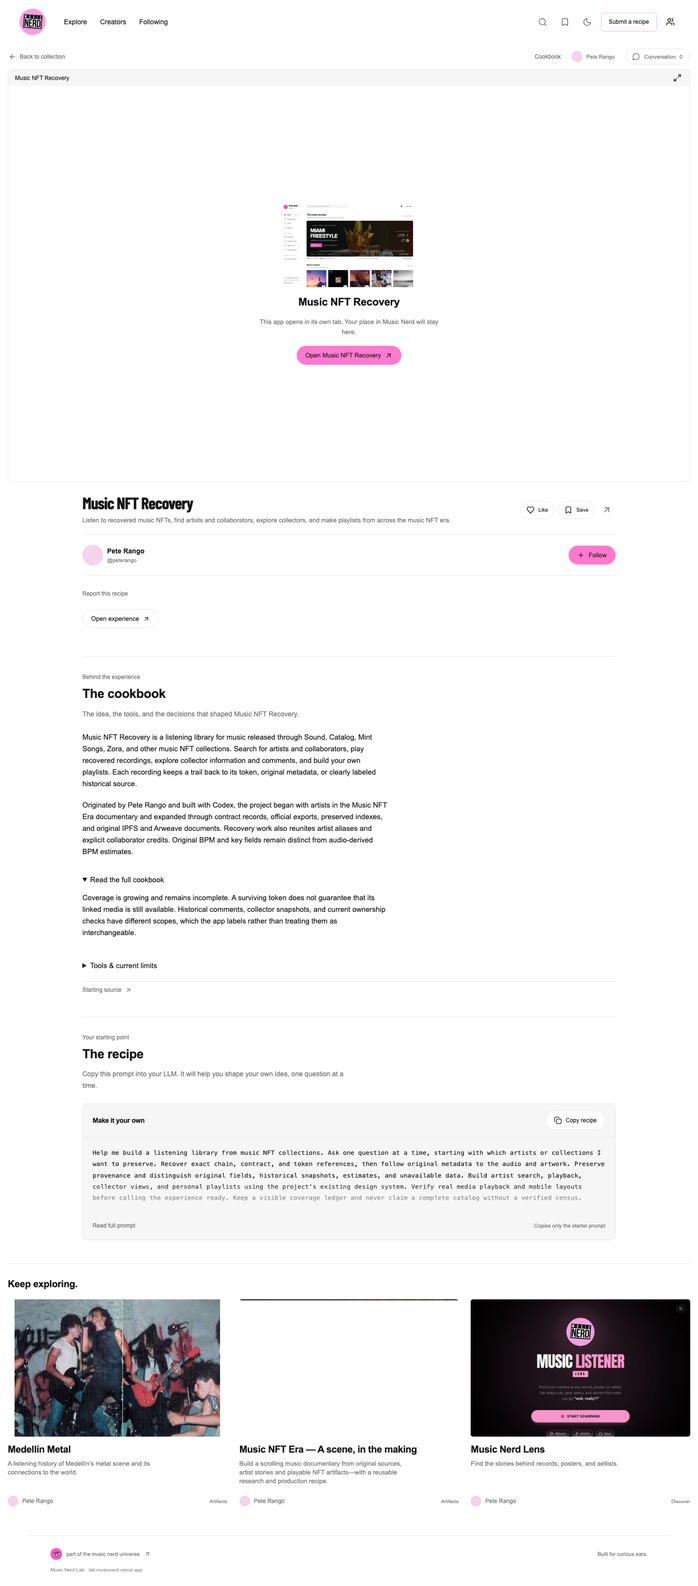
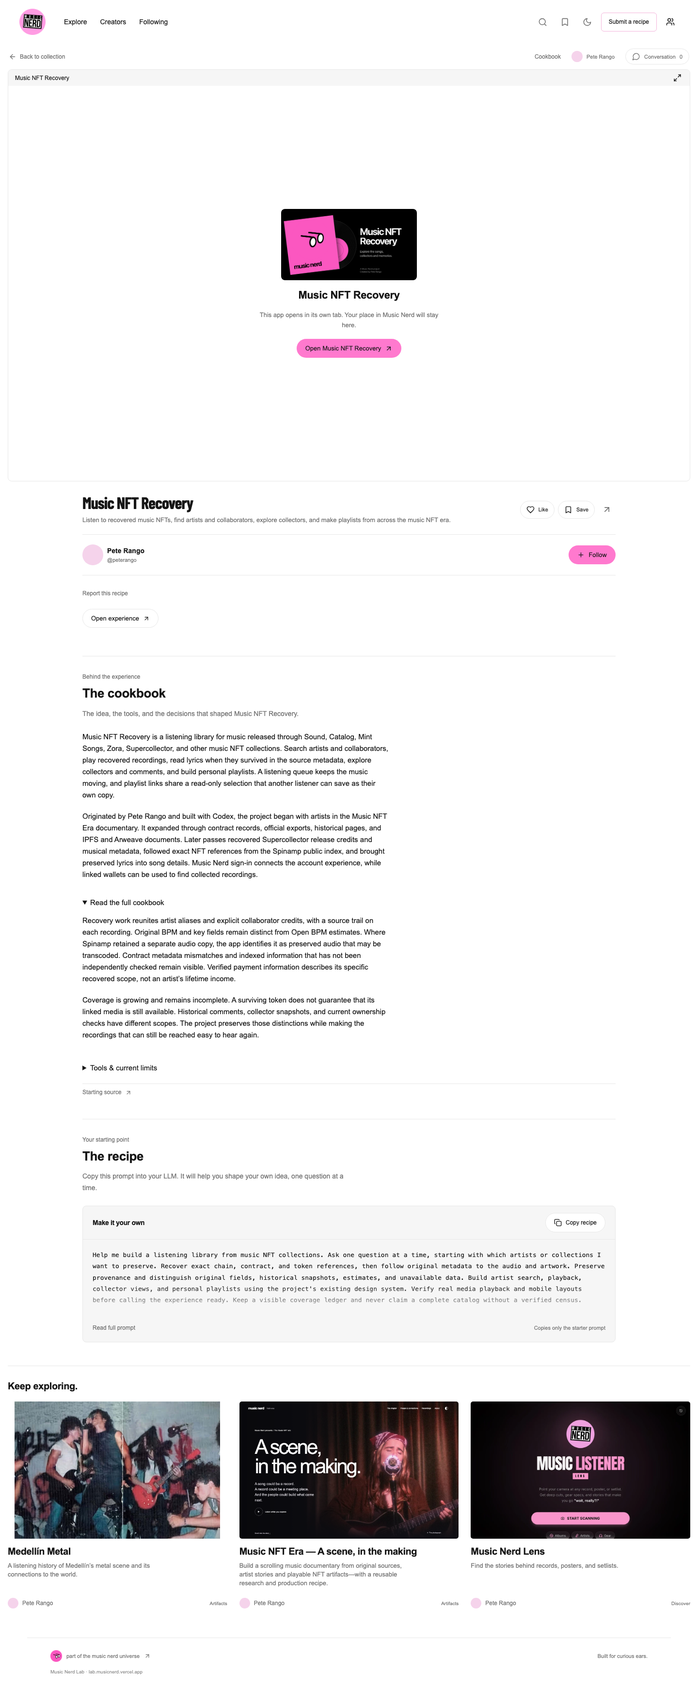
docs: record verified main deployment and updated Music Nerd Lab listing

diff --git a/docs/RECOVERY-HANDOFF.md b/docs/RECOVERY-HANDOFF.md
@@ -1,138 +1,66 @@
 # Music Nerd music NFT recovery — agent handoff
 
-Checkpoint: November 6, 2026, updated during the production release. Originator: **Pete Rango**. This document replaces the earlier handoff-only checkpoint. Final release checks and later data-worker checkpoints can supersede the counts below.
+Updated November 6, 2026. Created and originated by **Pete Rango**. This is the separate recovery/listening app, not the Music NFT Era documentary.
 
-## Repository and local workspaces
+## Current publication
 
-Dedicated public repository: https://github.com/xdjs/web3-music-repo . The implementation and public data are published in [draft PR #1](https://github.com/xdjs/web3-music-repo/pull/1), branch `codex/recovery-app`. Main remains the earlier handoff checkpoint until merged.
+- Repository: https://github.com/xdjs/web3-music-repo — PR #1 merged to `main`, app commit `e3458a1e29ff581dded2a90c0c6b19e454fa5548`.
+- Live app: https://web3-music-repo.vercel.app/ . Production deployment `dpl_EzRjTGwjs26ny3bDyrUvDJnF1uEr`, built from a clean worktree at that exact merged commit.
+- Immutable deployment: https://web3-music-repo-ql7ogjao5-musicnerd.vercel.app .
+- Existing Lab listing: https://lab.musicnerd.net/peterango/music-nft-recovery . The Lab entry launches the Vercel app; it is not a separate application build. Its new cover, main source link, cookbook and Pete Rango credit were published and verified by API read-back and desktop/mobile rendering. See `docs/lab-submission-plan.md` and `data/lab-update-persistence.json`.
+- Verification-only files committed after the app deployment do not change the deployed application code. `data/release-2026-11-06.json` and `data/production-final-verification.json` identify the tested release. Older failed/network-interrupted reports remain historical evidence, not the latest release result.
 
-- Git checkout: `/Users/peterarango/Documents/Music Nerd/Apps/web3-music-repo`.
-- Active preview and bulk workers: `/Users/peterarango/Documents/Music Nerd/Apps/music-nft-recovery`, http://127.0.0.1:4190.
-- The preview directory remains a preserved local working copy without Git. Its `.env.local` and private playlist data were deliberately not transferred.
-- The documentary at `/Users/peterarango/Documents/Music Nerd/Music NFT Era` is a different, dirty repository. Do not reset, stage or overwrite it.
-- Public deployment: https://web3-music-repo.vercel.app . Core release `4a21953` deployed as `dpl_EvGcZJyofBcXUXehfhyNQXZxGckt` and passed live browser verification. Later source edits require a new deployment.
-- The canonical Music Nerd database is used for read-only account lookup. Account playlists use a separate private Vercel Blob store. No canonical account creation or merge is performed.
-- Lab listing is published and verified under Pete Rango: https://lab.musicnerd.net/peterango/music-nft-recovery . See `docs/lab-submission-plan.md`.
+## Workspaces and active work
 
-Before editing, inspect running processes and working directories. Do not run two writers against one data file. Recovery data continues to change in the preview copy; the Git checkout is a reviewed checkpoint, not an automatic mirror.
+- Canonical checkout: `/Users/peterarango/Documents/Music Nerd/Apps/web3-music-repo`, now on `main`.
+- Clean deployed worktree: `../web3-music-release-main`, detached at the deployed app commit. Do not modify it while tracing this release.
+- Active preview and Open BPM worker: `../music-nft-recovery`, http://127.0.0.1:4190. The latest app files were synchronized there, preserving `.env.local`, private playlists, raw metadata cache and its newer audio-analysis output. It has no Git repository.
+- The documentary `/Users/peterarango/Documents/Music Nerd/Music NFT Era` is a different dirty repository. Do not reset, stage, move or overwrite it.
+- Never start two writers against one recovery output. Check lock owner PID/cwd before removing a stale lock. Checkpoints do not prove that a process is alive.
 
-## Latest user requests and implemented behavior
+The Open BPM worker was verified as PID 85147 in the preview copy. Its committed snapshot at 10:24:58 UTC has 732 estimates, 21 low-confidence results, 264 unavailable, 7,574 pending and 612 supplied-BPM skips. The 4,437 newer records were not queued in that run. It analyzes accessible full audio up to 256 MB/30 minutes, confidence<0.3 withheld; tempo range 60–200 can produce half/double-time estimates. Original BPM always wins. The tested pinned Open BPM/Rust setup is documented in README; local binary is under `../.music-recovery-tools/cargo/bin/`. Do not overwrite this worker's newer checkpoint with the Git snapshot.
 
-Pete requested all-track metadata recovery, useful musical/credit details, artist revenue, Open BPM for missing tempo, and a user profile for wallet collections/playlists.
+The Spinamp relation resolver continues only `data/spinamp/nft-references.json.gz`, deliberately gitignored. The frozen runtime bundle does not change automatically. At the release audit 26,409/52,987 relations were checked with 697 retryable failures. See the importer/resolver commands and limits in `docs/spinamp-recovery-plan.md`. Only regenerate a release candidate deliberately, after reviewing identity exclusions, source labels and actual media samples.
 
-- `#me` is My profile, with My collection / My playlists tabs and the existing Music Nerd controls. Privy-linked wallets and browser connections remain distinct. Guest wallet lookup/local playlists work. The account-loading placeholder is cleared when the account card mounts.
-- Metadata extraction now preserves CHAOS BPM/key/credits, plus genre, label, duration, location, license and other explicitly supplied release fields. The previous count of 27 BPM tracks came from a narrow description parser and was incomplete.
-- Song Details displays metadata-supplied BPM/key separately from `~BPM` Open BPM estimates. Original credits and compact expandable metadata retain source links. Estimates never override supplied BPM; confidence below 0.3 is withheld for review.
-- Catalog financial recovery validates the exact purchase event, gross USDC debit, and transfer to the historical artist payout address. Gross sales, artist payout, platform and referral amounts remain separate. Deduplication uses event IDs and BigInt amounts. Album purchases, secondary sales and later activity are not claimed.
-- Catalog collectors: Ethereum historical owners; Base purchase recipients, explicitly not current balances (the transfer export omits mint history). Exact chain/contract/token matching is required.
-- The Park Zora media and exact-token mint comments are integrated. Pete Rango’s `rush` is also recovered as a clearly labeled 20.63-second coin-backed video clip, with ERC-20 safeguards; it is not presented as a full-song NFT.
-- Mint Songs Ethereum V2 and a bounded Polygon sample are integrated, with original metadata, creator credits and exact media references. Original BPM/key are absent in the inspected cohort, not proven absent platform-wide. See `docs/mint-songs-recovery.md`.
-- Media and image recovery use bounded alternate gateways for the same CID/path; no replacement audio or invented profile image is substituted.
-- Same-song tabs preserve the hero and scroll; collectors/PFPs remain visible in Details. About stays in sidebar/footer; the top slogan is gone.
+## Frozen catalog and source boundaries
 
-## Current catalog and evidence
+**13,640 records**, not necessarily distinct compositions: Sound 8,729; Catalog 4,036; Supercollector 616; Mint Songs 162; Songcamp 43; Zora 34; Lens 1; other/unconfirmed/Arpeggi 19. No complete-platform, complete-discography or all-track playback claim is made. Exact token and record identity audit found no duplicates.
 
-The listening-catalog checkpoint has **9,209 records**, after excluding artwork-only entries from listening surfaces. This is a temporary release checkpoint, not a complete-platform or distinct-recording count. Raw source bundles retain recovery evidence, so their totals can exceed the playable-media catalog. Further Zora imports and media classifications may change the next report.
+- Original documents/publisher snapshots cover 9,209 existing records. Catalog's official export supplies 4,036 app records; all available original Catalog and Mint Songs snapshots were inspected for explicit musical fields. Missing fields are not evidence the music lacks them.
+- Supercollector adds 616 eligible public tracks from 152 checked ERC1155 contracts. Unreleased entries and 7 missing per-track references are excluded. ContractURI/index mismatches stay visible and are not promoted to independently verified media. See `docs/supercollector-recovery.md`.
+- Spinamp adds 3,815 exact NFT-linked records from a 52,987-track discovery inventory: 3,814 Sound + 1 Lens, including 3,421 Base additions. 2,011 use explicitly labeled Spinamp-preserved audio because original metadata media is empty. Independent chain verification remains pending; 125 entries lack a retained metadataURI. Public index assertions never become onchain verification. See `docs/spinamp-recovery-plan.md`.
+- Spinamp provides 1,211 source-attributed portrait references; one known Pete wallet maps to his existing profile. Name matching alone is not used to merge vendor identities. Remote portraits are not all visually checked.
+- **1,275 songs have inline lyrics**, recovered from existing original metadata caches. Text preserves line breaks, is escaped, and expands on the song page; source links are secondary. Schema 5 and `apply-cached-lyrics.mjs` update only lyric fields, preserving existing metadata. See `docs/lyrics-recovery.md`.
+- **2,477 supplied BPM values and 2,144 supplied keys**, across original documents, publisher snapshots, official release pages and explicitly indexed metadata. Open BPM estimates remain separate. `data/enrichment-report.json` distinguishes these source classes.
+- Pete has 21 attributed records: core 17 (including six newly verified Zora/other collaborations and a clearly labeled 20.63 s rush coin-backed clip), three Supercollector collaborator credits, and an exact-wallet Lens release. Evermore remains Other pending platform proof; holdings are not authorship. This is not a complete discography.
+- Sound census currently contains 9,488 known contracts, not songs. Multi-chain coverage remains incomplete. Spinamp's 28 factory seeds provide concrete scan boundaries, including Sound Base block 7,272,929; verify exact deployment events independently. No Polygon Sound factory appeared in that index response.
 
-Read `data/enrichment-report.json` for the timestamped metadata/BPM/payment counts. They change during recovery; rerun `node scripts/report-enrichment.mjs` before quoting them.
+## User-facing behavior
 
-- Sound known Ethereum/Optimism factory census: 9,488 contracts. Earlier cohort: 4,699 modern metadata successes, 276 legacy, 3,361 unminted, 1,256 unresolved. Consult source timestamps before combining cohorts.
-- Sound archive: 2,878 historical comments across 83 releases; 2,162 recovered wallet-linked profiles; 1,053 locally preserved PFPs. Not complete or current identity coverage.
-- Zora: 61 verified MintComment events from The Park on chain 7777777. Official minter, matching mint transfer, receipt and block provenance are retained. Wallet shown is mint recipient, not necessarily author. Base comment scans remain provider-limited.
-- Catalog official snapshot: 4,164 token entries, 2,499 Ethereum + 1,665 Base; 4,106 supported media references; earlier 2,970 current metadata reads. App deduplication reduces Catalog record count.
-- All 186 Base token-purchase rows in the official export now pass receipt/USDC verification, across 115 token identities; 113 match current app records. This is not all Catalog revenue. Historical purchase recipients and financial rows are separate views.
-- 1,611 original Catalog metadata JSON objects were recovered directly from the official export and saved in `data/catalog/original-metadata.json`.
-- Original metadata/notes currently provide hundreds of BPM values; the full retry scan and audio estimation pass are still running. Failed/rate-limited reads are unresolved, not proof that fields do not exist.
+Artist/credit search, clear platform/collection/network/media filters, sourced oldest/newest ordering, song Details/Collectors/Comments/Provenance, clean shared navigation/player icons, finite same-CID artwork/media fallback, and theme/mobile support are implemented. Artwork-only records are excluded while their discovery evidence is retained.
 
-Sources: [Catalog data](https://github.com/catalogworks/catalog-squidward-data), [Catalog contracts pinned](https://github.com/catalogworks/catalog-release-contracts-public/tree/6bcc4fbdc7c3c0ea38f8758cdbd1c7f41a60f472), [Open BPM pinned](https://github.com/fabriziosalmi/open-bpm/tree/73a3e6ef33f5c9d4131d118b14dcd4da73ec1775).
+Playing while browsing creates a contextual queue when no explicit queue exists. Explicit queues are preserved; remove-track/Clear queue keep current playback running. Conservative idle metadata warming uses one native player, at most two starts/minute, a two-second incomplete-request cutoff, and skips video, slow/data-saving/offline/background cases. Browser buffering controls bytes; this is not a hard byte cap.
 
-## Active long-running work and resume
+Personal playlists, likes, and bounded shared snapshot links work without login. Recipients can play and save independent copies. Four recovered Sound playlists have play/save/share/like controls: Chill n Work 23/23 matched, STØNED & STÅRVING #5 15/22, MOMINTS VOL-IV 13/14, Lofi Chill 10/10. Recovered historical positions and currently matched recordings are separate counts. Seven additional public Spinamp playlists are preserved as research; they are not mislabeled historical Sound playlists or claimed integrated.
 
-Two resumable bulk workers have operated in the original preview directory. **Inspect live process state before resuming; a checkpoint timestamp does not prove a worker is running.**
+Browsing requests a compact index; full details load only when a recording opens, with retry and stale-response protection. Vercel serves shared build-time catalog snapshots statically to avoid the Function response limit. Local API remains dynamic. Live index delivery measured 2,285,031 Brotli bytes /11,935,505 decoded, 480 ms in one cached browser run; latency is not guaranteed. Full static export 49,264,634 bytes returned HTTP 200. See `docs/catalog-delivery.md`.
 
-1. `scripts/recover-music-metadata.mjs` writes `data/music-metadata.json`. It consumes official saved JSON, reuses a raw cache under `work/music-metadata-cache`, paces requests, retries rate limits, and preserves earlier successful data. The first all-record attempt hit extensive HTTP 429s; the latest pass completed for all 9,209 current listening records, using original JSON and attributed snapshots. This is metadata extraction coverage, not proof that all platform releases or media are recovered.
-2. `scripts/analyze-missing-bpm.mjs` writes `data/audio-analysis.json`. It rechecks supplied BPM before each track, downloads/decodes full media, runs Open BPM, saves each result, and removes temporary audio. It currently runs four workers (`--concurrency=4`; default two), bounded file/duration limits, explicit low-confidence status, and cooldown/retry for HTTP 429. Thousands of entries remain pending; do not describe the run as complete.
+## Account and payment boundaries
 
-Inspect `pgrep -fl 'node.*(run.cjs|work/live.mjs)'`, then confirm process cwd. The temporary wrappers were repointed during work; read them before running. Prefer the named npm scripts when resuming. Do not start a duplicate worker while one still owns the output.
+Dedicated local and production clients use the existing Music Nerd Privy app. Exact allowed production origin is `https://web3-music-repo.vercel.app`; local origins are 127.0.0.1:4190 and localhost:4190. Main/default Music Nerd client settings remain unchanged. Real SDK email/wallet modal passed both viewports/themes with no origin errors. **Personal email OTP, wallet signing/linking and real-account playlist save/load remain unverified user actions.**
 
-Open BPM 0.1.0 was built from the pinned source because crates.io did not have the requested package. Rust/Cargo and binary are under `/Users/peterarango/Documents/Music Nerd/Apps/.music-recovery-tools/cargo/bin/`, with Rustup alongside. No shell startup file was changed. See README for portable installation.
+Canonical Music Nerd identity lookup is read-only. Unknown accounts receive 409 and onboard on Music Nerd; this app never creates/merges canonical accounts. Linked wallets and browser connections remain distinct. Private Vercel Blob stores account playlists with revision/ETag conflict protection and account isolation; live synthetic persistence/concurrency/private-access checks passed. Guest playlists remain browser-local. Wallet lookup matches known supported catalog tokens/indexers, not every NFT on every chain.
 
-After jobs finish: regenerate the report, inspect failures by reason, retry unreachable media deliberately, review the changed public JSON, copy those checkpoints into the Git checkout, rerun validation, and commit. Do not copy `.env*`, `private/`, `node_modules/`, temporary audio, or historical frontend bundles.
+Catalog financial views validate 186 Base purchases and 144 Ethereum royalty events. Gross purchases, artist/platform/referral payouts and received royalties remain separate; BigInt amounts and currencies are preserved. Historical recipients are not assumed current owners or personal income. Album allocation, all secondary sales and complete lifetime revenue are not claimed. Sound/Zora revenue recovery remains open.
 
-## Validation
+## Verification, branding and next steps
 
-- Unit coverage includes receipt/currency/payout checks, metadata precedence, collector token scope, account isolation, conditional playlist persistence, comment provenance, ERC-20 safeguards, and finite gateway fallback. The release orchestrator is rerunning the complete suite; do not reuse an older test count as final evidence.
-- Syntax and formatting checks pass in the preview copy.
-- Rendered music metadata/revenue and My profile verified at 1440px and 390px, light and dark, with no overflow or browser errors. Profile tabs do not shift, and the loading placeholder disappears.
-- Browser verification passed playback, search, likes, Pete credits, live ownership/collectors, contract rereads, comments, mobile navigation, and local playlist create/add/reorder/rename/reload/play/next/remove/delete.
-- A playlist playback check initially timed out on live media, then passed on retry. Keep external media failures visible; do not silently mark them verified.
-- Collector browser check loaded 64 collectors, followed a forward-verified ENS profile, and confirmed playback still works.
-- Evidence: `data/music-details-ui-verification.json`, `data/profile-catalog-ui-verification.json`, existing collector/comment reports and `captures/`.
-- Local real Privy email/wallet modal verified at 1440/390px in both themes; no OTP or wallet signature sent. Mocked account fixtures cover linked wallets, add/connect distinctions, setup retry, save/load and logout isolation. These do not prove a real personal authenticated transaction.
-- Four additional live playback samples passed: rush, Mint Songs Driving, Sound Breakdown, Catalog IOI. Polygon TAY artwork recovered through a same-CID fallback after a forced gateway failure. See `data/recovery-playback-verification.json` and `data/image-recovery-verification.json`.
-- Playlist sharing passed local fresh-recipient browser checks: original MIAMI playback, ordered Next, independent saved copy/edit/reload, likes, invalid links and unavailable entries. Links contain a bounded compressed snapshot of title and catalog IDs only; account save/load remains separate. See `data/playlist-sharing-verification.json` and `docs/playlist-sharing.md`. Production deployment remains pending.
-- Four historical Sound playlist snapshots are now integrated locally: Chill n Work (23/23 details), STØNED & STÅRVING #5 (16/22), MOMINTS VOL-IV (14/14), Lofi Chill (10/10). The prior seven Chill gaps were an extractor omission: its archived activity feed preserves those exact track IDs. Detail recovery, catalog matching and playback are separate counts. See `docs/historical-playlist-recovery.md`; four-list navigation/direct-link reload/save-copy browser verification passed at 1440/390px in both themes with no overflow or page errors (`data/historical-playlists-verification.json`). Catalog matches are 23, 15, 13, 10 respectively; saved copies retain those matched entries in exact order. Production deployment remains pending.
-- Playback preloading is under integration/review; use the orchestrator’s final deployment evidence before describing it as deployed.
+167 JavaScript tests, 5 Catalog-export Python checks, syntax/format checks, static module dependency check and the production build passed. Lyrics, source/provenance panels, filters, profiles, queues and playlists were reviewed at 1440/390 px in light/dark. Production checks passed static catalog parity, inline lyrics, actual attributed Spinamp PFP loading, selected audio startup, ordered playlist Next, save-copy, and real SDK login modal. No all-track/full-listen claim is made.
 
-## Remaining blockers and next priorities
+The share image matches the current live Music Nerd black/pink record-sleeve styling, original lenses logo and verified SF NS system type. OG/Twitter and Lab use the new 1200×630 image; see `docs/share-image.md`. Social networks may retain older cached previews. Instagram audio/video clip export remains a proposal, not implemented functionality.
 
-1. Complete the metadata/BPM workers and review unavailable/low-confidence results. Arweave is returning HTTP 429 for some content. Preserve original values and distinguish unknown, unavailable, and estimated.
-2. Broaden revenue: Catalog Ethereum sales/royalties, album allocation, Sound mint payments/splits, then Zora. Never multiply current price by editions or call secondary sale volume artist income. Keep currencies and historical USD conversions separate.
-3. Sound Base/Polygon historical scans remain incomplete. Empty responses caused by errors are not completed censuses. Additional Zora music discovery is multi-chain and cannot rely on a universal music tag.
-4. Privy origin configuration is fixed: local client allows only localhost/127.0.0.1:4190; production client allows only https://web3-music-repo.vercel.app. Both live API read-backs passed, with main/default settings preserved. Production environment is configured and real SDK modal QA passed in both viewports/themes. Real personal sign-in, linked-wallet flow and account save/load still need user testing. Unknown canonical accounts receive 409 and must first onboard through Music Nerd.
-5. Private Vercel Blob storage now provides durable production account playlists with conditional writes and account isolation. Guest playlists remain browser-local; real personal end-to-end persistence is unverified. Wallet library only matches known catalog tokens and supported indexers, not every wallet NFT on every chain.
-6. Missing PFPs need attributable historical images or forward-verified ENS. Do not choose arbitrary NFTs as a person's avatar. More artist banners and faithful historical organization remain useful.
-7. Reassess wallet dependency advisories before deployment (last install audit: 32 transitive issues, 11 moderate/21 high). No forced breaking downgrade was applied.
+Next: finish relation/BPM checkpoints, verify newly indexed original metadata/media, target missing factory ranges, add Solana/Nina support, continue sourced comments/social/profile recovery, and test Pete's real account flow. Last install audit reported 32 transitive advisories (11 moderate/21 high); no forced breaking dependency upgrades were applied.
 
-## Design reference and file map
+Core files: `archive.html`, `server.mjs`, `src/archive.js`, `src/archive.css`, `src/catalog-bundle.mjs`, `src/catalog-presentation.mjs`. Accounts: `src/account-*.mjs`/JSX and `src/personal-playlists.mjs`. Recovery: `scripts/recover-music-metadata.mjs`, `scripts/analyze-missing-bpm.mjs`, Spinamp/Supercollector scripts, and their source-specific docs. Design reference: `docs/sound-page-design-reference.md`; inspect actual approved references before changing UI.
 
-Reuse the established Sound/Music Nerd screen structure and shared controls. Actual references: `docs/sound-page-design-reference.md`, `evidence/reference-screens/artist-historical.png`, `evidence/reference-screens/song-historical.png`. Verify rendered changes in both themes and viewports.
-
-Core: `archive.html`, `src/archive.js`, `src/archive.css`, `server.mjs`, `src/catalog-bundle.mjs`.
-Accounts: `src/account-login.jsx`, `src/account-profile.jsx`, `src/account-wallets.jsx`, `src/personal-playlists.mjs`, `src/wallet-library-ui.mjs`.
-Enrichment: `src/extract-music-metadata.mjs`, `src/music-facts.mjs`, metadata/BPM/report scripts.
-Catalog: `src/catalog-holders.mjs`, `src/catalog-revenue.mjs`, `scripts/recover-catalog-revenue.mjs`, `data/catalog/`, `evidence/catalog-payments/`.
-Comments: `src/zora-comments.mjs`, `scripts/recover-zora-onchain-comments.mjs`, `evidence/zora-comments/`.
-
-The repository contains implementation and public recovery data. Private environment files, account playlist objects, temporary audio, and credentials stay outside Git. Vercel serves the public app; check live deployment evidence separately from repository state.
-
-## November 6 artist identity follow-up
-
-Pete confirmed `p3t3rango`. Both names resolve to one profile. The ten explicitly attributed NFT records plus the labeled rush clip are surfaced; five missing collaborator relationships were sourced and linked. See `docs/platform-and-pete-coverage.md` and `docs/pete-cross-platform-recovery.md` for evidence, public linked-wallet leads, and remaining platform gaps. This is not a complete discography.
-
-
-## Latest listening release
-
-- Clean shared SVG navigation/player controls; Artists directory naming; visible Collection/Network/Media/Sort row with oldest/newest sorting. 8,675 current records have supported historical token or release-contract dates, and unknown dates sort last. Recovery timestamps are never used as release dates.
-- 60 artwork-only records excluded after inspecting original metadata; source discovery evidence remains preserved for later music attachment recovery.
-- Automatic browsing queues preserve explicit queues; individual removal and Clear queue keep the current audio playing. Four viewport/theme checks used real audio through end-of-track.
-- One idle audio candidate can warm native player metadata; two starts per minute, two-second incomplete-request cutoff, no video/slow/data-saving/offline/background warming. Browser buffering controls bytes; there is no hard byte-budget claim.
-- Shared playlist links contain a bounded compressed title/track-ID snapshot. A recipient can play without login and save an independent editable copy. Four historical Sound playlists have play/save/share/like controls.
-- Six additional verified Pete-related recordings: Dreamvibe, Planet X, Tragg Park, Oms at Play, Evermore DEMO Tape REIN X Pete Rango, and Mavi Taylor's Say it celly. Alongside the earlier ten NFTs and rush clip, Pete now has 17 attributed records. See `docs/pete-zora-expanded.md`; this is not a complete discography. Evermore remains platform Other pending exact platform provenance.
-- OpenSea holdings: 412 unique enumerated items versus a displayed413 total; creator attribution is independently established. New Base Sound-looking contracts remain discovery leads until factory provenance is verified.
-- Instagram/audio clip exports were discussed as the next sharing feature; they are not implemented. Supercollector was subsequently imported in the expanded checkpoint below.
-
-Release verification before deploy: 148 JavaScript tests and five Catalog-export Python tests pass; syntax, formatting, private-Blob live CAS probe, selected actual-media playback, playlist sharing, four historical playlists, navigation/filter and queue checks pass. Real personal email OTP, wallet signing, linked-wallet persistence and real-account playlist save/load remain user checks.
-
-Metadata checkpoint 2026-11-06T09:48:58.382Z: 9209 current records read; 1571 supplied BPM values; 1339 supplied keys. Open BPM remains running locally and its output is not automatically deployed.
-
-## November 6 expanded release checkpoint
-
-The expanded candidate contains **13,640 records** (8,729 Sound, 4,036 Catalog, 616 Supercollector, 162 Mint Songs, 43 Songcamp, 34 Zora, 1 Lens, and 19 other/unconfirmed/Arpeggi entries). Pete's attributed profile now has 21 records, including the verified Supercollector collaborator credits and exact-wallet Lens identity. This supersedes earlier inventory totals above. It is not a complete discography or platform census.
-
-- **Inline lyrics:** 1,275 songs recovered from existing original metadata caches, readable on the song page with preserved line breaks and expand/collapse. The schema5 extractor and additive application script preserve existing metadata fields. See `docs/lyrics-recovery.md`.
-- **Spinamp:** 3,815 frozen additional NFT-linked records, including 2,011 explicitly labeled preserved-audio fallbacks; 1,211 attributed artist portrait references. Full discovery inventory 52,987 tracks, exact relation checks 12,598 at release freeze; remaining inventory is not in the app yet. Chain verification is separately pending. See `docs/spinamp-recovery-plan.md` and release-audit.
-- **Supercollector:** 616 eligible public tracks, all 152 contract standards checked; contractURI/index mismatches remain visible. Unreleased records and 7 missing per-track references are excluded. See `docs/supercollector-recovery.md`.
-- **Musical data:** 2,477 supplied BPM values, 2,144 supplied keys across original metadata, publisher snapshots, official release pages and explicitly indexed metadata. Metadata read counts include these distinct source classes; they are not independent onchain reads.
-- **Delivery:** compact catalog and lazy song detail; static CDN catalog snapshots on Vercel. Current gzip index 2.41MB versus full 8.99MB. Shared payload builder keeps local/API/static forms consistent.
-- **Branding:** current Music Nerd black/pink record sleeve and original lenses; 1200×630OG and Lab cover. Exact live system font verified. See `docs/share-image.md`.
-
-Validation: 167 JavaScript tests and 5 Catalog-export Python checks passed before release. New lyrics, Spinamp and Supercollector panels were rendered and reviewed at 1440/390px, light/dark; no overflow. Selected real audio starts passed; neither all-track playback nor all remote portraits is verified. Final production deployment and Lab read-back are recorded separately after the main merge; prior verified production was core `4a21953`.
-
-### Continuing local work
-
-The Open BPM worker remains in `../music-nft-recovery`, PID 85147 at verification, with a single-writer lock. The committed snapshot from 10:24:58 UTC has 732 estimates, 21 low-confidence, 264 unavailable, 7,574 pending and 612 supplied-BPM skips; 4,437 newer records have not been queued in this run. Check current PID/cwd/lock before resuming. Do not overwrite its output with this older release checkpoint.
-
-The Spinamp relation resolver continues only `data/spinamp/nft-references.json.gz`, which is deliberately gitignored. The frozen runtime bundle does not update automatically. At the final audit 26,409/52,987 relations were checked with 697 retryable provider failures. Inspect live process/checkpoint, then regenerate a deliberate release candidate using the importer, preserving exact identity/media/source qualifications.
-
-Remaining: complete relation and BPM scans; verify newly indexed NFT metadata/media independently; use the 28 discovered factory seeds for targeted multi-chain census gaps; add a Solana/Nina adapter; continue comments/history recovery. Instagram audio/video exports remain a proposal, not an implemented feature. Personal email OTP, wallet signature/link, and real-account playlist save/load still require the user. Main/default Music Nerd Privy settings remain unchanged.
+Private environment files, account playlist objects, temporary audio and historical third-party frontend bundles remain outside Git and public deployment.

diff --git a/docs/lab-submission-plan.md b/docs/lab-submission-plan.md
@@ -1,41 +1,32 @@
-# Music Nerd Lab submission — prepared November 6, 2026
+# Music NFT Recovery on Music Nerd Lab
 
-Status: **published and verified**, November 6 at 09:57 UTC. Pete explicitly requested adding the deployed project to Lab under Pete Rango. Public listing: https://lab.musicnerd.net/peterango/music-nft-recovery .
+Status: **published, updated, and independently verified** on November 6, 2026 at 10:38 UTC. Pete explicitly authorized the original submission and the later update after merging to main.
 
-## Confirmed publishing path
+Public listing: https://lab.musicnerd.net/peterango/music-nft-recovery .
 
-The live [Lab API documentation](https://lab.musicnerd.net/recipe-api.md) specifies `PUT https://lab.musicnerd.net/api/recipes`. This is the current recipe/app submission path; `/api/protocols` remains a compatibility alias. A successful write creates or updates an external experience in Lab, together with its cookbook and starter recipe.
+## Current published listing
 
-The API accepts a dedicated creator-scoped publishing key, not a Supabase service-role credential. Creator identity is determined by that key; do not send `creator` or `owner_id` in the payload. A read-only verification found that the existing local publishing key matches an active database registration for creator `peterango`, whose public name is **Pete Rango**. The earlier key-mismatch note is not the current state.
-
-The intended ID `music-nft-recovery` is unused. `music-nft-era` already belongs to the separate documentary and must remain unchanged. Reusing the recovery ID makes retries idempotent.
-
-## Prepared listing
-
+- ID: `music-nft-recovery`; creator: `peterango` / **Pete Rango**. The existing listing was updated; no duplicate was created.
 - Name: **Music NFT Recovery**.
-- Description: Listen to recovered music NFTs, find artists and collaborators, explore collectors, and make playlists from across the music NFT era.
-- Category: Artifacts.
-- Launch mode: external; no camera or microphone permissions.
-- Source: https://github.com/xdjs/web3-music-repo/tree/codex/recovery-app .
-- Cover: actual 1440×900 rendered homepage screenshot, `public/lab-cover.png`, to be served from the verified deployment.
-- Cookbook: explains listening features, token/metadata provenance, the actual recovery process, original versus estimated musical metadata, and incomplete coverage.
-- Starter recipe: a short adaptable prompt asking one question at a time, beginning with the artists or collections to preserve.
+- Launch: https://web3-music-repo.vercel.app/ .
+- Source: https://github.com/xdjs/web3-music-repo/tree/main .
+- Cover: https://web3-music-repo.vercel.app/lab-cover-v2.png — the approved 1200×630 Music Nerd cover, matching the deployment's social image.
+- Category: Artifacts. External launch mode; no camera or microphone permissions.
+- Cookbook: explicit “Originated by Pete Rango” credit, the documentary-to-contract recovery process, current listening/lyrics/playlist/account features, Supercollector and Spinamp recovery, source distinctions, and incomplete coverage. It makes no complete-discography or lifetime-income claim.
+- Starter recipe: a short adaptable prompt, beginning with the artists or collections to preserve. It remains distinct from the project's actual creation narrative.
 
-The full prepared payload and submission helper are under ignored `work/lab-submission/`. The helper validates the complete payload using Lab's current `protocolInput` schema. A dry run validated all text fields and limits with a placeholder origin; that is not a deployed URL check or a publication.
+## API and persistence verification
 
-## Publish and verify
+Updated through `PUT https://lab.musicnerd.net/api/recipes` using the existing creator-scoped publishing key. The [public API documentation](https://lab.musicnerd.net/recipe-api.md) documents this route; `/api/protocols` is a compatibility alias. Creator identity comes from the key; the payload does not supply `creator` or `owner_id`. No key was printed, committed, rotated, or revoked.
 
-1. Confirm the recovery HTTPS origin is deployed and publicly accessible, and its `/lab-cover.png` serves the screenshot.
-2. Prepare the final payload with that exact origin. Review all fields, then run the helper with `--publish` only after the orchestrator's go-ahead.
-3. Submit to `/api/recipes` using the existing Pete-scoped publishing key. The helper loads the key privately and does not print it or include it in source control. It refuses redirects when transmitting authorization.
-4. Require HTTP 200 with `id=music-nft-recovery`, `creator=peterango`, `status=published`.
-5. Read back the persisted record, including exact deployment URL, image, source, and text.
-6. Open `https://lab.musicnerd.net/peterango/music-nft-recovery` in a browser. Verify title, Pete Rango attribution, cover, launch destination, cookbook, and starter recipe actually render. An API success alone does not prove public rendering.
+The API returned HTTP200 with `id=music-nft-recovery`, `creator=peterango`, `status=published`, and `updated_at=2026-11-06T10:37:42.600764+00:00`. An independent read-only database SELECT confirmed the exact launch URL, new cover, main source URL, category, external mode, status, and explicit originator credit. Stored cookbook and starter-recipe hashes match the submitted text.
 
-No Lab application source, schema, existing listing, publishing key registration, or production database record was changed during preparation. The existing key is shared with prior authorized publishing work; do not revoke it automatically as if it were a new disposable key.
+The separate `music-nft-era` documentary retains its original URL, cover, source, and update timestamp `2026-11-05T23:54:12.202521+00:00`. No Lab source or schema was changed. The ignored `work/lab-submission/` folder contains the payload and submission helper; credentials remain outside source control.
 
-## Publication result
+## Rendered and deployment verification
 
-Submitted through `PUT /api/recipes` after production browser QA passed for deployment `dpl_EvGcZJyofBcXUXehfhyNQXZxGckt` (source `4a21953`). API returned HTTP 200, creator `peterango`, status `published`. Read-only database verification confirmed exact launch URL, screenshot, source, cookbook, starter recipe and external mode. The separate `music-nft-era` entry retained its prior URL and update timestamp.
+Updated only after production deployment `dpl_EzRjTGwjs26ny3bDyrUvDJnF1uEr` from merged main commit `e3458a1e29ff581dded2a90c0c6b19e454fa5548` passed the real live catalog, lyrics, artist portrait, login-modal, shared-playlist and audio checks.
 
-Public rendered page verified at 1440 and 390px: title, Pete Rango attribution, explicit originator credit, loaded original app screenshot, correct launch destination, expanded cookbook, and starter recipe. Lab's page measures 392px document width at a 390px viewport; the 2px overflow is a Lab layout limitation, not a recovery app change. No Lab source was modified. Evidence: `data/lab-submission-verification.json`, `captures/lab-listing-*.png`.
+The public Lab page was then opened and visually inspected at 1440 and 390px. Its new cover loads, the launch button targets the live recovery app, the source link targets main, and the expanded cookbook, originator credit, and starter recipe render correctly. Lab's existing page measures 392px document width at a 390px viewport; that minor Lab layout issue was not changed as part of this recovery app update.
+
+Evidence: `data/lab-update-persistence.json`, `data/lab-submission-verification.json`, and `captures/lab-listing-{1440,390}.png`. The first publication at 09:57 UTC used the prior homepage screenshot and recovery branch; this update supersedes those listing fields.

diff --git a/docs/privy-login-status.md b/docs/privy-login-status.md
@@ -56,3 +56,9 @@ Pete explicitly approved enabling login on the live site. Created and saved **Mu
 ## Live production verification — 09:54 UTC
 
 Deployment `dpl_EvGcZJyofBcXUXehfhyNQXZxGckt` serves the exact production client and reports `playlistStorage: private-blob`. The real Privy SDK login modal passed at 1440/390px in light/dark themes, with email and wallet choices, Music Nerd lenses, no overflow or JavaScript errors, and a successful HTTP 200 public configuration request. No invalid-origin response occurred. Evidence: `data/privy-production-login-verification.json`, `captures/privy-production-login-*.png`, `scripts/verify-production-login.mjs`. No OTP or wallet signature was sent; real account completion remains a personal test.
+
+## Main release recheck — November 6, 10:36 UTC
+
+Rechecked the stable production site after deployment `dpl_EzRjTGwjs26ny3bDyrUvDJnF1uEr` from merged main commit `e3458a1e29ff581dded2a90c0c6b19e454fa5548`. The actual Privy SDK modal still passes at 1440/390px in light/dark with the dedicated production client above, email and wallet options, HTTP200 public configuration, no invalid-origin response, no overflow, and no JavaScript errors. The live account configuration reports `private-blob` storage.
+
+Evidence was refreshed in `data/privy-production-login-verification.json` and `captures/privy-production-login-*.png`. No authentication settings were changed during this recheck. No OTP or wallet signature was sent; the real personal sign-in and authenticated playlist save/load boundary remains unchanged.

diff --git a/docs/catalog-delivery.md b/docs/catalog-delivery.md
@@ -19,3 +19,5 @@ Supercollector details distinguish the official public release page from a curre
 The build exports the same shared `buildCatalogPayload` into `dist/catalog/index.json` and `full.json`. Explicit Vercel rewrites match the `view=index` query first, then the full export, before the dynamic API catch-all. These public snapshots are served as static assets, avoiding the 4.5 MB Function response limit even when a client does not accept compression. Private account and wallet routes are not exported or cached by this mechanism. Recording detail still uses its bounded dynamic endpoint. A new data checkpoint becomes public only after a new deployment.
 
 At the 13,640-record checkpoint: index 11,935,505 bytes /2,413,679 gzip; full 49,264,634 bytes /8,992,625 gzip. The index is approximately 73% smaller compressed; viewing a song adds only that song's full detail. This improves transfer and parsing cost but does not promise immediate playback from every external media gateway.
+
+Live production delivery on November 6: the index used Brotli, 2,285,031 encoded bytes /11,935,505 decoded, 480ms in the measured cached browser request. Both API rewrites matched their static snapshots; the 49,264,634-byte full export returned HTTP 200. See `data/production-final-verification.json`. These are observed request measurements, not a latency guarantee.
